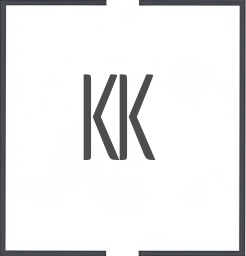
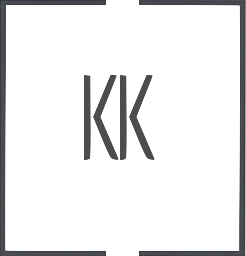
basic gallery fuction

diff --git a/styles.css b/styles.css
@@ -30,8 +30,6 @@ body {
   }
 
 #name{
-    
-   
     color: black; 
     -webkit-text-stroke: 1px white; 
     font-weight: bold;
@@ -46,7 +44,6 @@ body {
 .footer{
     text-align: center;
     background-color: rgb(206, 239, 250);
-    
 }
 
 h5 {
@@ -77,9 +74,7 @@ h5 {
     background: radial-gradient(circle at 30% 30%, #fff76b, #ffcc33);
     border-radius: 50%;
     animation: moveSun 12s ease-in-out forwards;
-    z-index: 0;
-    
-   
+    z-index: 0; 
   }
 
   ul {
@@ -88,7 +83,6 @@ h5 {
     list-style-type: none;
     align-items: center;
     gap: 10px;
-
   }
 
   li {
@@ -96,14 +90,10 @@ h5 {
     font-size: x-large;
   }
 
-
- 
   @keyframes moveSun {
     0%   { transform: translateX(-100px) translateY(0);   opacity: 0.2; }
     100% { transform: translateX(0) translateY(-100px);  opacity: 1; }
   }
-
-
 
   .cloud {
     width: 180px;
@@ -193,5 +183,16 @@ h5 {
     100% { -webkit-transform: translateX(2100px); }
   }
 
+#my-gallery{
+    width: 50%;
+    height: 50%;
+    max-width: 1200px; /* or your preferred max width */
+    
+}
 
+.gallery-middle{
+    display: flex;
+    justify-content: center;
+    
+}
   

diff --git a/gallery.html b/gallery.html
@@ -21,10 +21,25 @@
             </ul>
         </div>
     </div>
-    <div></div>
+    <div class="gallery-middle">
+        <div id="my-gallery"></div>
+    </div>
     <div class="footer">
         <h5 >Designed by Kyle Kells</h5>
     </div>
-    
+    <script src="https://product-gallery.cloudinary.com/all.js" type="text/javascript"></script>
+    <script>
+        const myGallery = cloudinary.galleryWidget({
+            container: '#my-gallery',
+            cloudName: 'dnbf5ygzp',
+            aspectRatio: "4:3",
+            mediaAssets: [{ 
+                tag: 'cdt',
+                transformation: { crop: "fill" }
+            }],
+            carouselStyle: 'none'
+            });
+        myGallery.render();
+        </script>   
 </body>
 </html>

diff --git a/index.html b/index.html
@@ -1,6 +1,7 @@
 <!DOCTYPE html>
 <html lang="en">
 <head>
+    <link rel="icon" type="image/png" href="media/KK.png">
     <link rel="stylesheet" href="styles.css"> 
     <meta charset="UTF-8">
     <meta name="viewport" content="width=device-width, initial-scale=1.0">
@@ -72,5 +73,6 @@
         }
     changeColor();
 </script>
+
 </body>
 </html>
